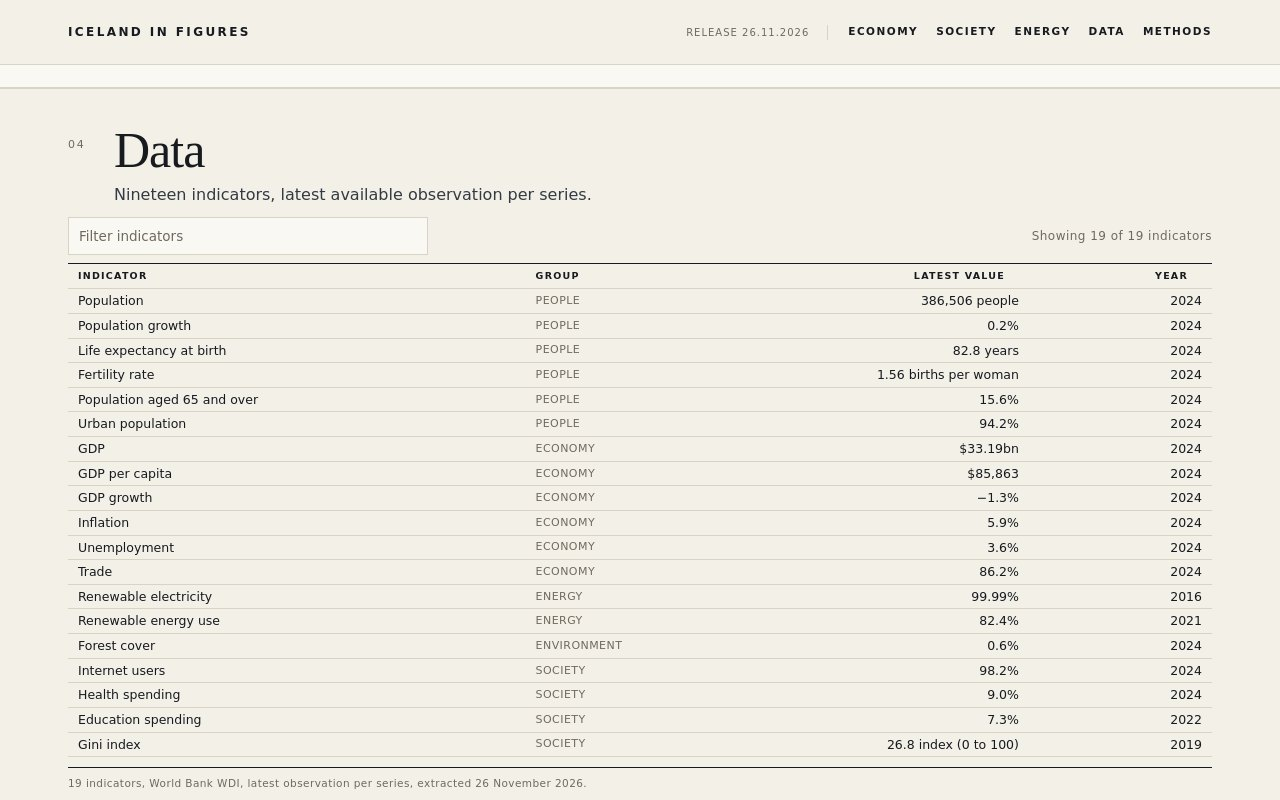
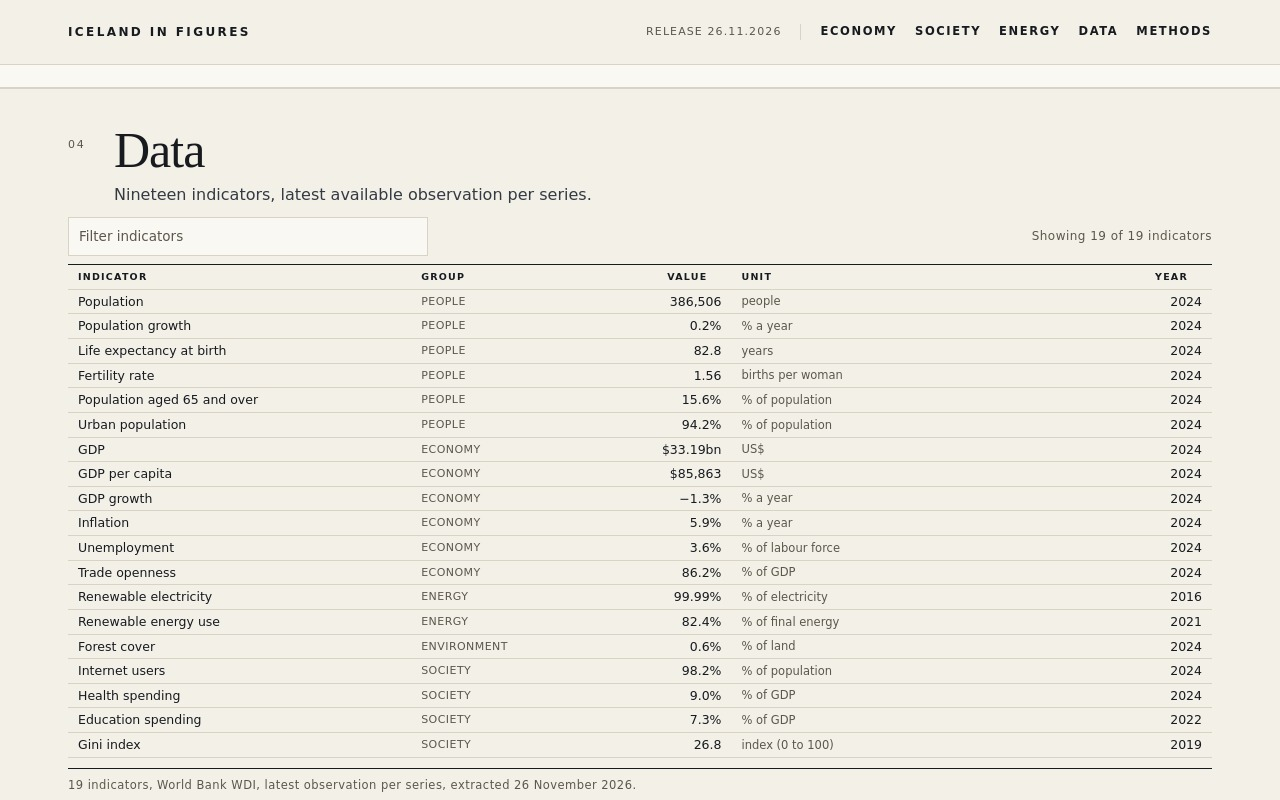
Polish charts, table columns and micro-type for the judge view

diff --git a/app/styles.css b/app/styles.css
@@ -3,7 +3,7 @@
   --panel: #faf8f2;
   --ink: #171a1f;
   --basalt: #343a43;
-  --muted: #6f6a5f;
+  --muted: #5c574c;
   --rule: #d9d3c5;
   --glacier: #2f6f86;
   --lava: #a8432a;
@@ -105,7 +105,7 @@ a {
   padding-right: 18px;
   border-right: 1px solid var(--rule);
   color: var(--muted);
-  font-size: 10px;
+  font-size: 11px;
   font-weight: 400;
   letter-spacing: 0.1em;
   text-transform: uppercase;
@@ -121,7 +121,7 @@ a {
   padding: 4px 0;
   border-bottom: 1px solid transparent;
   color: var(--ink);
-  font-size: 10.5px;
+  font-size: 11.5px;
   font-weight: 600;
   letter-spacing: 0.14em;
   text-transform: uppercase;
@@ -200,7 +200,7 @@ h1 {
 
 .kpi {
   min-width: 0;
-  padding: 16px 26px 15px;
+  padding: 16px 29px 15px 26px;
   border-right: 1px solid var(--rule);
 }
 
@@ -216,10 +216,14 @@ h1 {
 .kpi-label {
   display: block;
   color: var(--muted);
-  font-size: 10.5px;
+  font-size: 11.5px;
   font-weight: 600;
   letter-spacing: 0.14em;
   text-transform: uppercase;
+}
+
+.kpi-label-short {
+  display: none;
 }
 
 .kpi-value {
@@ -233,7 +237,7 @@ h1 {
 }
 
 .kpi-unit {
-  margin-left: 7px;
+  margin-left: 10px;
   color: var(--muted);
   font-family: var(--sans);
   font-size: 12px;
@@ -244,7 +248,7 @@ h1 {
 .kpi-source {
   display: block;
   color: var(--muted);
-  font-size: 10.5px;
+  font-size: 12px;
   letter-spacing: 0.08em;
   text-transform: uppercase;
 }
@@ -273,7 +277,7 @@ h1 {
 
 .figure-source {
   color: var(--muted);
-  font-size: 10.5px;
+  font-size: 12px;
   letter-spacing: 0.06em;
   white-space: nowrap;
 }
@@ -313,7 +317,7 @@ h1 {
 
 .figure-note {
   color: var(--muted);
-  font-size: 11px;
+  font-size: 12px;
   text-align: right;
   white-space: nowrap;
 }
@@ -389,14 +393,23 @@ h2 {
 .chart-source {
   margin-top: 6px;
   color: var(--muted);
-  font-size: 10.5px;
+  font-size: 11.5px;
   line-height: 1.4;
+}
+
+.series-heading {
+  margin-top: 14px;
+  color: var(--muted);
+  font-size: 10px;
+  font-weight: 650;
+  letter-spacing: 0.14em;
+  text-transform: uppercase;
 }
 
 .series-notes {
   display: grid;
   grid-template-columns: repeat(3, minmax(0, 1fr));
-  margin-top: 14px;
+  margin-top: 4px;
   border-top: 1px solid var(--ink);
 }
 
@@ -439,7 +452,7 @@ h2 {
   padding-top: 9px;
   border-top: 1px solid var(--rule);
   color: var(--muted);
-  font-size: 10.5px;
+  font-size: 11.5px;
   letter-spacing: 0.04em;
   line-height: 1.4;
 }
@@ -475,7 +488,7 @@ h2 {
 .card-label {
   min-height: 26px;
   color: var(--muted);
-  font-size: 10.5px;
+  font-size: 11.5px;
   letter-spacing: 0.1em;
   line-height: 1.3;
   text-transform: uppercase;
@@ -490,10 +503,14 @@ h2 {
   white-space: nowrap;
 }
 
+.cards-2 .card-value {
+  font-size: 28px;
+}
+
 .card-unit {
   margin-top: 4px;
   color: var(--muted);
-  font-size: 10.5px;
+  font-size: 11.5px;
 }
 
 .card-meta {
@@ -503,7 +520,7 @@ h2 {
   margin-top: auto;
   padding-top: 10px;
   color: var(--muted);
-  font-size: 9.5px;
+  font-size: 11px;
   letter-spacing: 0.06em;
   text-transform: uppercase;
 }
@@ -655,19 +672,23 @@ h2 {
 }
 
 #data-table th[data-key="name"] {
-  width: 40%;
+  width: 30%;
 }
 
 #data-table th[data-key="group"] {
-  width: 16%;
+  width: 12%;
 }
 
 #data-table th[data-key="value"] {
+  width: 16%;
+}
+
+#data-table th[data-key="unit"] {
   width: 28%;
 }
 
 #data-table th[data-key="year"] {
-  width: 16%;
+  width: 14%;
 }
 
 .data-table th {
@@ -719,6 +740,13 @@ h2 {
   white-space: nowrap;
 }
 
+.data-table td.unit {
+  padding-left: 10px;
+  color: var(--muted);
+  font-size: 11.5px;
+  text-align: left;
+}
+
 .data-table td.empty {
   padding: 14px 10px;
   color: var(--muted);
@@ -740,7 +768,7 @@ h2 {
   padding-top: 8px;
   border-top: 1px solid var(--ink);
   color: var(--muted);
-  font-size: 10.5px;
+  font-size: 11.5px;
   letter-spacing: 0.04em;
   line-height: 1.4;
 }
@@ -982,15 +1010,19 @@ h2 {
   }
 
   #data-table th[data-key="name"] {
-    width: 46%;
+    width: 40%;
   }
 
   #data-table th[data-key="value"] {
-    width: 36%;
+    width: 20%;
+  }
+
+  #data-table th[data-key="unit"] {
+    width: 26%;
   }
 
   #data-table th[data-key="year"] {
-    width: 18%;
+    width: 14%;
   }
 
   .data-tools {
@@ -1065,14 +1097,23 @@ h2 {
 
   .kpi-label {
     min-height: 23px;
-    font-size: 9px;
+    font-size: 9.5px;
     letter-spacing: 0.08em;
     line-height: 1.25;
   }
 
+  .kpi-label-full {
+    display: none;
+  }
+
+  .kpi-label-short {
+    display: inline;
+  }
+
   .kpi-value {
     margin: 4px 0 1px;
-    font-size: 29px;
+    padding-right: 4px;
+    font-size: 27px;
     letter-spacing: -0.04em;
   }
 

diff --git a/app/charts.js b/app/charts.js
@@ -2,7 +2,7 @@
 const COLORS = {
   glacier: "#2f6f86",
   lava: "#a8432a",
-  rule: "#d9d3c5",
+  rule: "#c9c1b0",
   muted: "#6f6a5f",
   ink: "#171a1f",
   paper: "#f3f0e8",
@@ -46,9 +46,9 @@ function plot(points, options) {
   const height = options.height ?? 220;
   const narrow = width < 480;
   const margin = {
-    left: narrow ? 46 : 58,
-    right: options.kind === "line" ? (narrow ? 20 : 46) : (narrow ? 14 : 20),
-    top: narrow ? 22 : 24,
+    left: narrow ? 66 : 70,
+    right: options.kind === "line" ? (narrow ? 22 : 46) : (narrow ? 14 : 20),
+    top: narrow ? 24 : 26,
     bottom: narrow ? 30 : 34,
   };
   const plotWidth = width - margin.left - margin.right;
@@ -67,18 +67,18 @@ function plot(points, options) {
     ? `M0 ${plotHeight.toFixed(2)} L${coordinates.map(([x, y]) => `${x.toFixed(2)} ${y.toFixed(2)}`).join(" L")} L${plotWidth.toFixed(2)} ${plotHeight.toFixed(2)} Z`
     : "";
 
-  const tickFont = narrow ? 9.5 : 11;
-  const yearFont = narrow ? 10 : 11.5;
-  const endpointFont = narrow ? 10.5 : 13;
-  const dotRadius = narrow ? 4.2 : 5.4;
-  const lineWidth = options.kind === "line" ? 2.6 : 2.2;
+  const tickFont = 12.5;
+  const yearFont = 12.5;
+  const endpointFont = 14.5;
+  const dotRadius = 6;
+  const lineWidth = 3;
 
-  const gridlines = [0.25, 0.5, 0.75, 1].map((fraction) => {
+  const gridlines = [0, 0.25, 0.5, 0.75].map((fraction) => {
     const y = margin.top + fraction * plotHeight;
-    return `<line x1="${margin.left}" y1="${y.toFixed(2)}" x2="${margin.left + plotWidth}" y2="${y.toFixed(2)}" stroke="${COLORS.rule}" stroke-width="1" />`;
+    return `<line x1="${margin.left}" y1="${y.toFixed(2)}" x2="${margin.left + plotWidth}" y2="${y.toFixed(2)}" stroke="${COLORS.rule}" stroke-width="1.2" />`;
   }).join("");
 
-  const yLabels = [0.25, 0.5, 0.75, 1].map((fraction) => {
+  const yLabels = [0, 0.25, 0.5, 0.75, 1].map((fraction) => {
     const value = maxY - fraction * (maxY - minY);
     const y = margin.top + fraction * plotHeight;
     return `<text x="${margin.left - 8}" y="${(y + 3.5).toFixed(2)}" text-anchor="end" font-size="${tickFont}" fill="${COLORS.muted}">${escapeXml(options.format ? options.format(value) : value)}</text>`;
@@ -100,7 +100,7 @@ function plot(points, options) {
     : `<path d="${linePath}" fill="none" stroke="${COLORS.glacier}" stroke-width="${lineWidth}" stroke-linejoin="round" stroke-linecap="round" />`;
 
   return `<svg viewBox="0 0 ${width} ${height}" role="img" aria-label="${escapeXml(options.label ?? "Chart")}">
-  <text x="${margin.left - 8}" y="${(margin.top + 3.5).toFixed(2)}" text-anchor="end" font-size="${tickFont}" letter-spacing="0.08em" fill="${COLORS.muted}">${escapeXml(options.unit ?? "")}</text>
+  <text x="${margin.left}" y="${margin.top - 6}" text-anchor="start" font-size="${tickFont}" letter-spacing="0.08em" fill="${COLORS.muted}">${escapeXml(options.unit ?? "")}</text>
   ${gridlines}
   <line x1="${margin.left}" y1="${baseline.toFixed(2)}" x2="${margin.left + plotWidth}" y2="${baseline.toFixed(2)}" stroke="${COLORS.ink}" stroke-width="1" opacity="0.65" />
   <svg x="${margin.left}" y="${margin.top}" width="${plotWidth}" height="${plotHeight}" viewBox="0 0 ${plotWidth} ${plotHeight}" preserveAspectRatio="none" aria-hidden="true">${plotMarkup}</svg>

diff --git a/app/app.js b/app/app.js
@@ -38,15 +38,6 @@ function unitText(indicator) {
   return indicator.unit;
 }
 
-function tableText(indicator) {
-  const text = numberText(indicator);
-  if (indicator.code === "SP.POP.TOTL") return `${text} people`;
-  if (indicator.code === "SP.DYN.LE00.IN") return `${text} years`;
-  if (indicator.code === "SP.DYN.TFRT.IN") return `${text} births per woman`;
-  if (indicator.code === "SI.POV.GINI") return `${text} index (0 to 100)`;
-  return text;
-}
-
 function makeElement(tag, className, text) {
   const element = document.createElement(tag);
   if (className) element.className = className;
@@ -59,8 +50,17 @@ function renderKpi(indicator) {
   const value = makeElement("span", "kpi-value");
   value.append(document.createTextNode(numberText(indicator)));
   value.append(makeElement("span", "kpi-unit", unitText(indicator)));
+  const label = makeElement("span", "kpi-label");
+  if (indicator.code === "SP.DYN.LE00.IN") {
+    label.append(
+      makeElement("span", "kpi-label-full", indicator.name),
+      makeElement("span", "kpi-label-short", "Life expectancy"),
+    );
+  } else {
+    label.textContent = indicator.name;
+  }
   item.append(
-    makeElement("span", "kpi-label", indicator.name),
+    label,
     value,
     makeElement("span", "kpi-source", `World Bank WDI \u00b7 ${indicator.year}`),
   );
@@ -201,7 +201,8 @@ function renderTable() {
     row.append(
       makeElement("td", "", indicator.name),
       makeElement("td", "group", indicator.group),
-      makeElement("td", "num", tableText(indicator)),
+      makeElement("td", "num", numberText(indicator)),
+      makeElement("td", "unit", indicator.unit),
       makeElement("td", "num", String(indicator.year)),
     );
     fragment.append(row);
@@ -210,7 +211,7 @@ function renderTable() {
   if (rows.length === 0) {
     const row = document.createElement("tr");
     const cell = makeElement("td", "empty", `No indicators match "${state.query.trim()}".`);
-    cell.colSpan = 4;
+    cell.colSpan = 5;
     row.append(cell);
     fragment.append(row);
   }

diff --git a/app/index.html b/app/index.html
@@ -66,7 +66,8 @@
             <div id="gdp-chart" class="chart"></div>
             <p class="chart-note">GDP per capita rose from $27,565 in 1995 to $85,863 in 2024, not adjusted for inflation.</p>
             <p class="chart-source">Source: World Bank WDI, NY.GDP.PCAP.CD, extracted 26 November 2026.</p>
-            <div class="series-notes" aria-label="Series notes">
+            <p class="series-heading">Crisis years</p>
+            <div class="series-notes" aria-label="Crisis years">
               <div class="series-note">
                 <span class="series-year">2008</span>
                 <span class="series-value">$57,489</span>
@@ -141,7 +142,8 @@
               <tr>
                 <th scope="col" data-key="name" aria-sort="none"><button type="button" data-sort="name">Indicator <span class="arrow" aria-hidden="true"></span></button></th>
                 <th scope="col" data-key="group" class="col-group" aria-sort="none"><button type="button" data-sort="group">Group <span class="arrow" aria-hidden="true"></span></button></th>
-                <th scope="col" data-key="value" class="num" aria-sort="none"><button type="button" data-sort="value">Latest value <span class="arrow" aria-hidden="true"></span></button></th>
+                <th scope="col" data-key="value" class="num" aria-sort="none"><button type="button" data-sort="value">Value <span class="arrow" aria-hidden="true"></span></button></th>
+                <th scope="col" data-key="unit" aria-sort="none"><button type="button" data-sort="unit">Unit <span class="arrow" aria-hidden="true"></span></button></th>
                 <th scope="col" data-key="year" class="num" aria-sort="none"><button type="button" data-sort="year">Year <span class="arrow" aria-hidden="true"></span></button></th>
               </tr>
             </thead>

diff --git a/app/data.js b/app/data.js
@@ -11,7 +11,7 @@ export const INDICATORS = [
   { code: "NY.GDP.MKTP.KD.ZG", name: "GDP growth", value: -1.282876444, year: 2024, unit: "% a year", group: "Economy" },
   { code: "FP.CPI.TOTL.ZG", name: "Inflation", value: 5.8568385, year: 2024, unit: "% a year", group: "Economy" },
   { code: "SL.UEM.TOTL.ZS", name: "Unemployment", value: 3.6, year: 2024, unit: "% of labour force", group: "Economy" },
-  { code: "NE.TRD.GNFS.ZS", name: "Trade", value: 86.18157928, year: 2024, unit: "% of GDP", group: "Economy" },
+  { code: "NE.TRD.GNFS.ZS", name: "Trade openness", value: 86.18157928, year: 2024, unit: "% of GDP", group: "Economy" },
   { code: "EG.ELC.RNEW.ZS", name: "Renewable electricity", value: 99.99363881, year: 2016, unit: "% of electricity", group: "Energy" },
   { code: "EG.FEC.RNEW.ZS", name: "Renewable energy use", value: 82.4, year: 2021, unit: "% of final energy", group: "Energy" },
   { code: "AG.LND.FRST.ZS", name: "Forest cover", value: 0.600218189, year: 2024, unit: "% of land", group: "Environment" },
